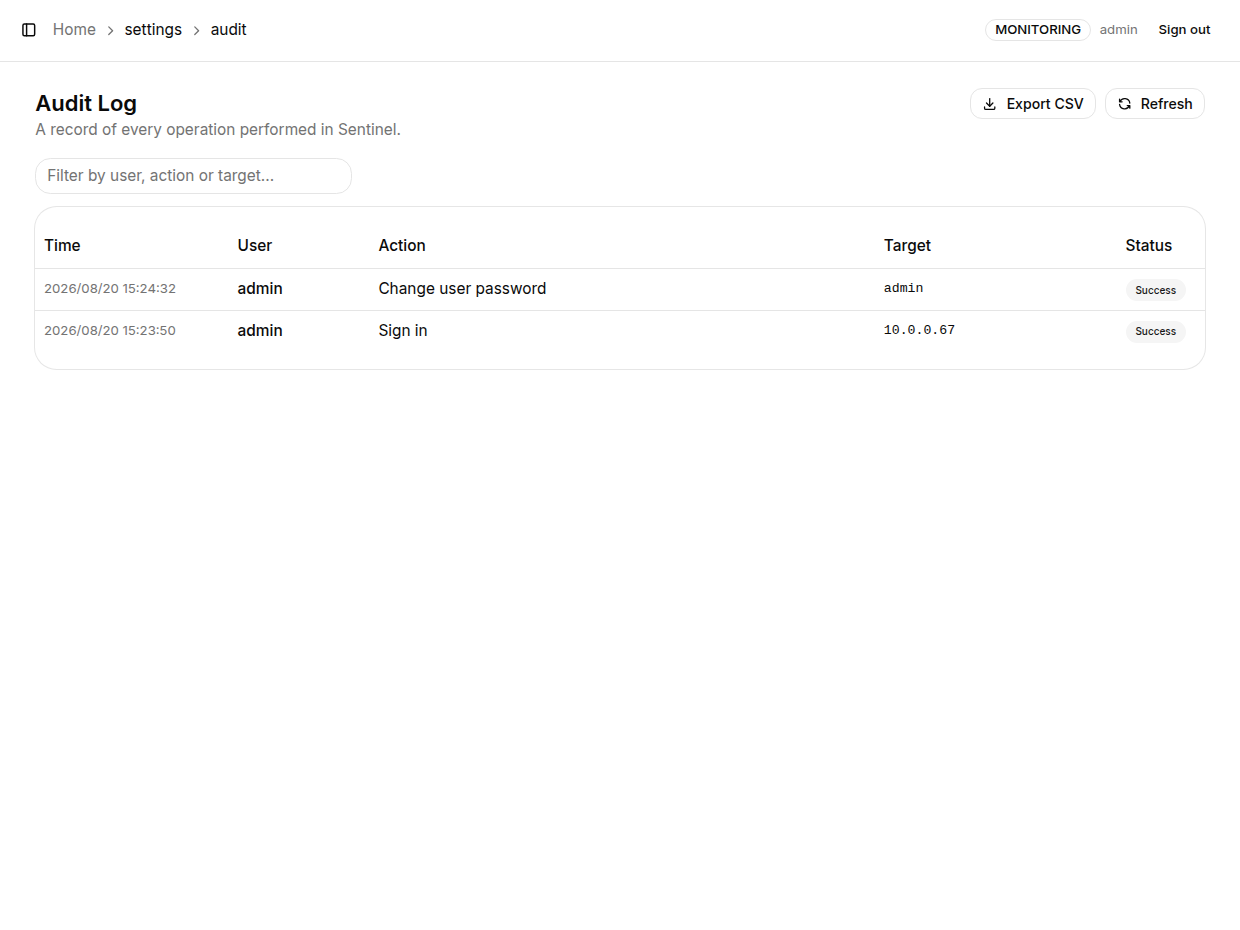
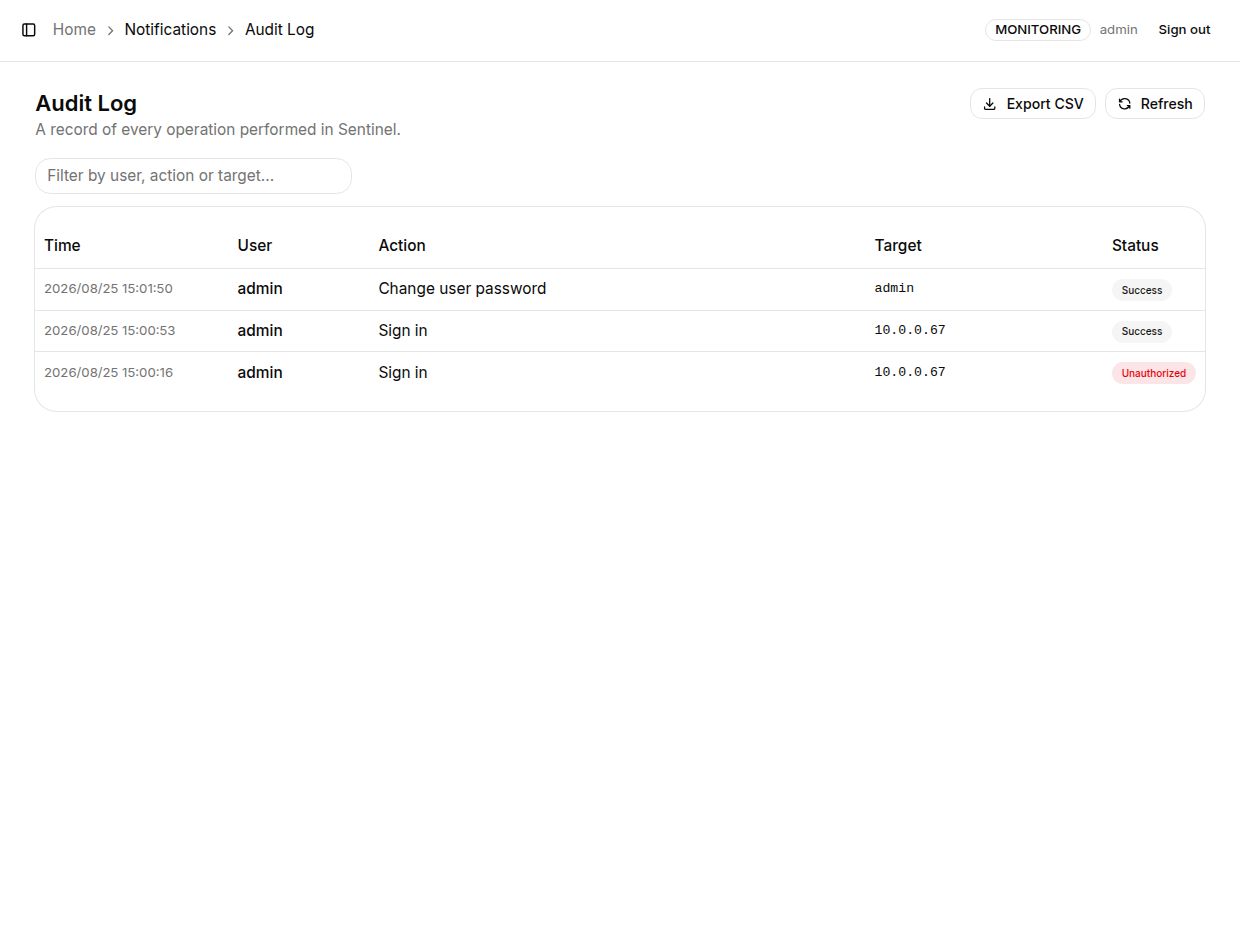
docs: Audit Log moved to the Notifications menu (v0.50.2)
Nav path updated to Notifications → Audit Log (route unchanged,
admin-only, hidden from viewers), doc sidebar category moved to match,
and the screenshot retaken on v0.50.2 showing the new breadcrumb.
v0.50.1 was a filter-button copy tidy with no doc impact.

diff --git a/sidebars.ts b/sidebars.ts
@@ -81,6 +81,7 @@ const sidebars: SidebarsConfig = {
           items: [
             'features/notifications',
             'features/admission-events',
+            'features/audit-log',
           ],
         },
         {
@@ -100,7 +101,6 @@ const sidebars: SidebarsConfig = {
             'features/alerts',
             'features/syslog',
             'features/event-retention',
-            'features/audit-log',
           ],
         },
       ],

diff --git a/docs/features/audit-log.md b/docs/features/audit-log.md
@@ -10,7 +10,7 @@ sidebar_position: 19
 
 Audit Log（v0.45+）記錄**每一筆透過 K8s Sentinel 執行的操作**，回答「誰、在什麼時候、對什麼對象、做了什麼」：Pod 隔離與解除、Global Protect Mode 切換、三種 Policy 的建立/修改/刪除、使用者管理、Alerts 與 Syslog 設定、Event Retention 變更，以及每一次登入嘗試與密碼變更。
 
-進入「**Settings → Audit Log**」即可查看（僅 admin 角色可存取）：
+進入「**Notifications → Audit Log**」即可查看（v0.50.2 起由 Settings 移至 Notifications 選單；僅 admin 角色可存取，viewer 不會看到此選單項目）：
 
 ![Audit Log 頁面](/img/features/audit/list.png)
 

diff --git a/i18n/en/docusaurus-plugin-content-docs/current/features/audit-log.md b/i18n/en/docusaurus-plugin-content-docs/current/features/audit-log.md
@@ -10,7 +10,7 @@ sidebar_position: 19
 
 The Audit Log (v0.45+) records **every operation performed through K8s Sentinel**, answering who did what, when, and to which target: quarantine and release, Global Protect Mode, create/update/delete across all three policy types, user management, alert and syslog config, retention changes, plus every sign-in attempt and password change.
 
-Open "**Settings → Audit Log**" to view it (admin role only):
+Open "**Notifications → Audit Log**" to view it (moved from Settings to the Notifications menu in v0.50.2; admin role only, and the menu item is hidden from viewers):
 
 ![Audit Log page](/img/features/audit/list.png)
 
